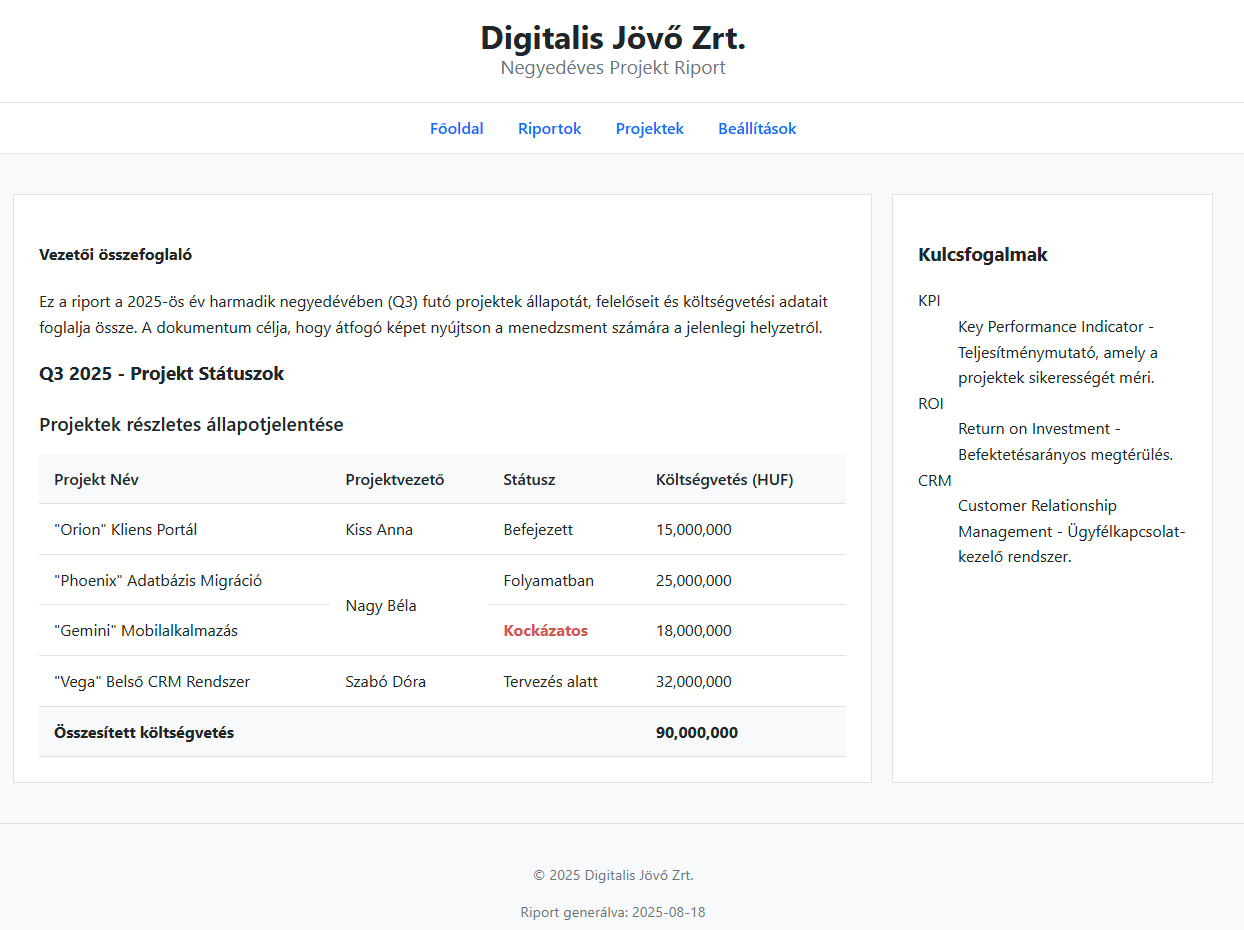
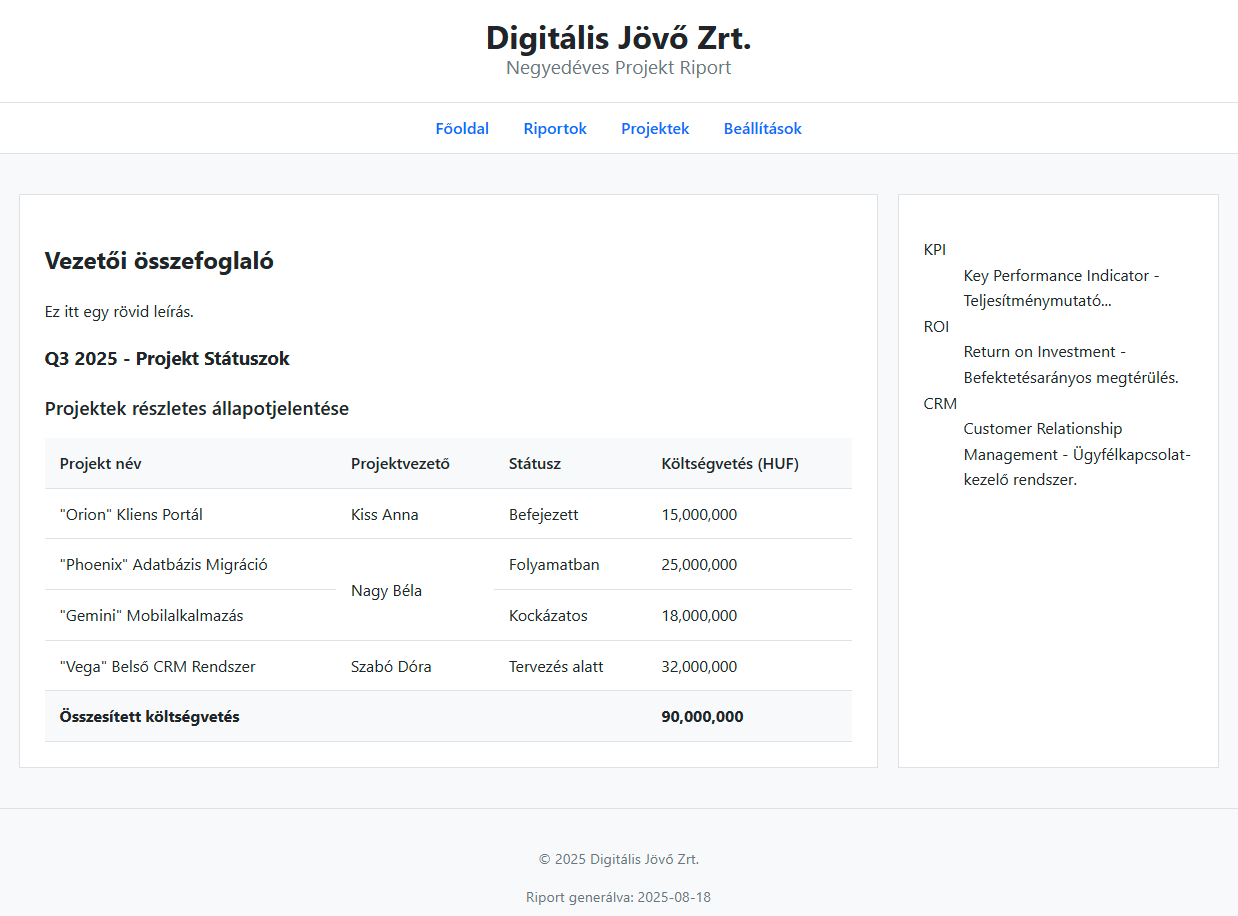
2. hét véglegesítve

diff --git a/2025/textbook/contents/week02/gyak_megoldas/stilus.css b/2025/textbook/contents/week02/gyak_megoldas/stilus.css
@@ -1,0 +1,132 @@
+/* --- Alapbeállítások: Minimalista stílus, a hangsúly a tartalom olvashatóságán van. --- */
+body {
+    font-family: -apple-system, BlinkMacSystemFont, "Segoe UI", Roboto, Helvetica, Arial, sans-serif;
+    line-height: 1.6;
+    background-color: #f8f9fa; /* Halvány szürke háttér az oldalnak */
+    color: #212529; /* Sötét, de nem teljesen fekete szövegszín */
+    margin: 0;
+    padding: 0;
+}
+
+/* --- Az oldal fő szemantikus blokkjainak stílusai --- */
+
+/* A globális fejléc stílusa */
+header {
+    background-color: #ffffff;
+    padding: 1.5rem 2rem;
+    text-align: center;
+    border-bottom: 1px solid #dee2e6; /* Vékony elválasztó vonal */
+}
+
+header h1, header h2 {
+    margin: 0;
+    line-height: 1.2;
+}
+
+header h2 {
+    font-size: 1.2rem;
+    font-weight: 400; /* Vékonyabb betűstílus */
+    color: #6c757d; /* Szürke alcím */
+}
+
+/* A navigációs menü stílusa */
+nav {
+    background-color: #ffffff;
+    padding: 0.75rem;
+    text-align: center;
+    border-bottom: 1px solid #dee2e6;
+}
+
+nav ul {
+    margin: 0;
+    padding: 0;
+    list-style: none;
+}
+
+nav li {
+    display: inline-block;
+    margin: 0 15px;
+}
+
+nav a {
+    color: #0d6efd; /* Professzionális kék a linkeknek */
+    text-decoration: none;
+    font-weight: 500;
+}
+
+nav a:hover {
+    text-decoration: underline; /* Egérráhúzáskor aláhúzás a jobb UX érdekében */
+}
+
+/* A főtartalom és az elrendezés beállítása */
+main {
+    display: flex;
+    padding: 20px;
+    gap: 20px;
+    max-width: 1200px; /* Maximális szélesség a jobb olvashatóságért */
+    margin: 20px auto; /* Középre igazítás */
+}
+
+/* A fő riport (article) és oldalsáv (aside) közös stílusai */
+article, aside {
+    background-color: #ffffff;
+    padding: 25px;
+    border: 1px solid #dee2e6; /* Vékony keret, nincs árnyék */
+}
+
+article {
+    flex: 3;
+}
+
+aside {
+    flex: 1;
+}
+
+/* A lábléc stílusa */
+footer {
+    text-align: center;
+    padding: 1.5rem;
+    margin-top: 20px;
+    border-top: 1px solid #dee2e6;
+    font-size: 0.9em;
+    color: #6c757d; /* Halványabb szöveg */
+}
+
+/* --- A táblázat stílusai --- */
+
+table {
+    width: 100%;
+    border-collapse: collapse;
+    margin-top: 20px;
+}
+
+caption {
+    font-size: 1.2em;
+    font-weight: 600; /* Félkövér, de nem a legvastagabb */
+    padding-bottom: 15px;
+    text-align: left;
+}
+
+th {
+    text-align: left;
+    background-color: #f8f9fa; /* Nagyon halvány háttér a fejlécnek */
+    font-weight: 600;
+}
+
+th, td {
+    padding: 12px 15px;
+    border-bottom: 1px solid #dee2e6; /* Csak vízszintes elválasztó vonalak */
+}
+
+tfoot td {
+    font-weight: bold;
+    background-color: #f8f9fa;
+}
+
+/* --- Kiegészítő (bónusz) stílusok --- */
+
+/* A "Kockázatos" státusz kiemelése, letisztult módon */
+.status-risk {
+    color: #d9534f; /* Visszafogott piros szín */
+    font-weight: bold;
+}

diff --git a/2025/textbook/contents/week02/gyak_megoldas/02-html5-gyak-megoldas.html b/2025/textbook/contents/week02/gyak_megoldas/02-html5-gyak-megoldas.html
@@ -1,0 +1,88 @@
+<!DOCTYPE html>
+<html lang="hu">
+<head>
+    <meta charset="UTF-8">
+    <title>HTML5 Oldalstruktúra - Egyszerű Példa</title>
+    <link rel="stylesheet" href="stilus.css">
+</head>
+<body>
+    <header>
+        <h1>Digitális Jövő Zrt.</h1>
+        <h2>Negyedéves Projekt Riport</h2>
+    </header>
+    <nav>
+        <ul>
+            <li><a href="#">Főoldal</a></li>
+            <li><a href="#">Riportok</a></li>
+            <li><a href="#">Projektek</a></li>
+            <li><a href="#">Beállítások</a></li>
+        </ul>
+    </nav>
+    <main>
+        <article>
+            <h2>Vezetői összefoglaló</h2>
+            Ez itt egy rövid leírás.
+            <h3>Q3 2025 - Projekt Státuszok</h3>
+
+            <table>
+                <caption>Projektek részletes állapotjelentése</caption>
+                <thead>
+                    <tr>
+                        <th>Projekt név</th>
+                        <th>Projektvezető</th>
+                        <th>Státusz</th>
+                        <th>Költségvetés (HUF)</th>
+                    </tr>
+                </thead>
+                <tbody>
+                    <tr>
+                        <td>"Orion" Kliens Portál</td>
+                        <td>Kiss Anna</td>
+                        <td>Befejezett</td>
+                        <td>15,000,000</td>
+                    </tr>
+                    <tr>
+                        <td>"Phoenix" Adatbázis Migráció</td>
+                        <td rowspan="2">Nagy Béla</td>
+                        <td>Folyamatban</td>
+                        <td>25,000,000</td>
+                    </tr>
+                    <tr>
+                        <td>"Gemini" Mobilalkalmazás</td>
+                        <td>Kockázatos</td>
+                        <td>18,000,000</td>
+                    </tr>
+                    <tr>
+                        <td>"Vega" Belső CRM Rendszer</td>
+                        <td>Szabó Dóra</td>
+                        <td>Tervezés alatt</td>
+                        <td>32,000,000</td>
+                    </tr>
+                </tbody>
+                <tfoot>
+                    <tr>
+                        <td colspan="3">Összesített költségvetés</td>
+                        <td>90,000,000</td>
+                    </tr>
+                </tfoot>
+            </table>
+
+
+        </article>
+        <aside>
+            <dl>
+                <dt>KPI</dt>
+                <dd>Key Performance Indicator - Teljesítménymutató...</dd>
+                <dt>ROI</dt>
+                <dd>Return on Investment - Befektetésarányos megtérülés.</dd>
+                <dt>CRM</dt>
+                <dd>Customer Relationship Management - Ügyfélkapcsolat-kezelő rendszer.</dd>
+            </dl>
+        </aside>
+    </main>
+    <footer>
+        <p>© 2025 Digitális Jövő Zrt.</p>
+        <p>Riport generálva: 2025-08-18</p>
+    </footer>
+</body>
+</html>

diff --git a/2025/textbook/contents/week02/02-tablazatok.md b/2025/textbook/contents/week02/02-tablazatok.md
@@ -16,7 +16,21 @@ Egy táblázat alapvető elemei a következők:
 Lássunk egy egyszerű példát:
 
 ```html
-<table>
+<!DOCTYPE html>
+<html lang="hu">
+<head>
+    <meta charset="UTF-8">
+    <title>HTML5 Oldalstruktúra - Egyszerű Példa</title>
+    <style>
+        tr, td, table {
+            border:1px solid black; 
+            border-collapse: collapse;
+        }
+    </style>
+</head>
+<body>
+
+  <table>
   <tr>
     <td>1. sor, 1. cella</td>
     <td>1. sor, 2. cella</td>
@@ -25,8 +39,13 @@ Lássunk egy egyszerű példát:
     <td>2. sor, 1. cella</td>
     <td>2. sor, 2. cella</td>
   </tr>
-</table>
+  </table>
+</body>
+</html>
 ```
+
+>[!NOTE]
+>Egyelőre a stílusbeállításokat csak másoljuk át, nem kell megértenünk. Azért adtam hozzá `border`-t (szegély), hogy láthatóvá váljon a táblázat felépítése.
 
 ## Fejlécek (`<th>`)
 
@@ -56,22 +75,22 @@ Néha szükség van arra, hogy egy cella több oszlopot vagy sort is átfogjon. 
 ```html
 <table>
   <tr>
-    <th colspan="2">Név</th>
-    <th>Kor</th>
+    <th colspan="2">Termék</th>
+    <th>Eladott darab</th>
   </tr>
   <tr>
-    <td>Péter</td>
-    <td>Kovács</td>
-    <td>28</td>
+    <td>Telefon</td>
+    <td>iPhone 15</td>
+    <td>120</td>
   </tr>
   <tr>
-    <td rowspan="2">Közös Cella</td>
-    <td>Valami</td>
-    <td>33</td>
+    <td rowspan="2">Laptop</td>
+    <td>MacBook Air</td>
+    <td>45</td>
   </tr>
   <tr>
-    <td>Másvalami</td>
-    <td>41</td>
+    <td>Dell XPS</td>
+    <td>60</td>
   </tr>
 </table>
 ```

diff --git a/2025/textbook/contents/week02/02-html5-gyak.md b/2025/textbook/contents/week02/02-html5-gyak.md
@@ -54,6 +54,8 @@ Készíts egy listát 4 linkkel:
 - Projektek
 - Beállítások
 
+Nem fogjuk ezeket a menüpontokat ténylegesen használni, ezért a linkek erre a dokumentumra mutatnak majd `href=#` attribútum beállításával.
+
 ### Main - Article szekció
 Az `<article>` elembe kerül:
 1. **Címsor**: "Vezetői összefoglaló" (`<h2>`)
@@ -98,7 +100,6 @@ Az `<article>` elemen belül készíts táblázatot "Projektek részletes állap
 ### Speciális feladatok:
 - **Függőleges cellaösszevonás**: Nagy Béla két projektet is vezet - a neve csak egyszer jelenjen meg!
 - **Vízszintes cellaösszevonás**: A láblécben az "Összesített költségvetés" felirat és az összeg megfelelően oszoljon el
-- **Vizuális kiemelés**: A "Kockázatos" státuszt emeld ki `<span class="status-risk">` elemmel
 
 ---
 
@@ -112,7 +113,6 @@ Az `<article>` elemen belül készíts táblázatot "Projektek részletes állap
 - [ ] Táblázat szerkezeti tagolása kész? (fejléc, törzs, lábléc)
 - [ ] Nagy Béla neve csak egyszer jelenik meg (cellaösszevonás)?
 - [ ] Lábléc cellaösszevonása működik?
-- [ ] "Kockázatos" státusz kiemelve span elemmel?
 - [ ] Copyright szimbólum (`&copy;`) használva?
 
 ---
